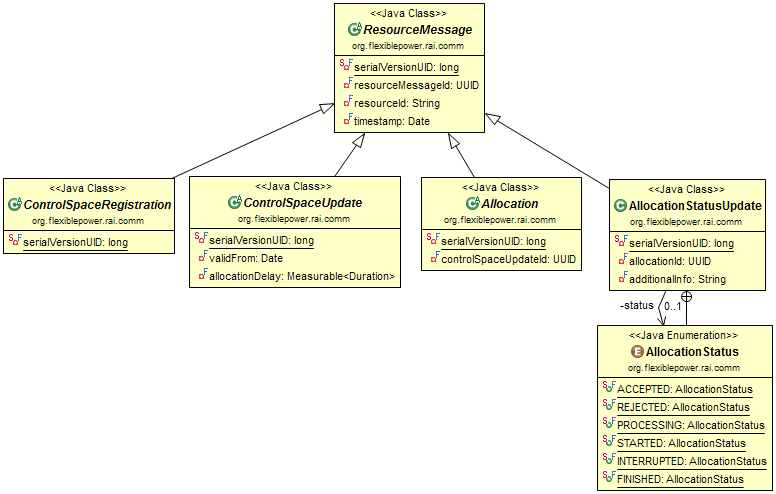
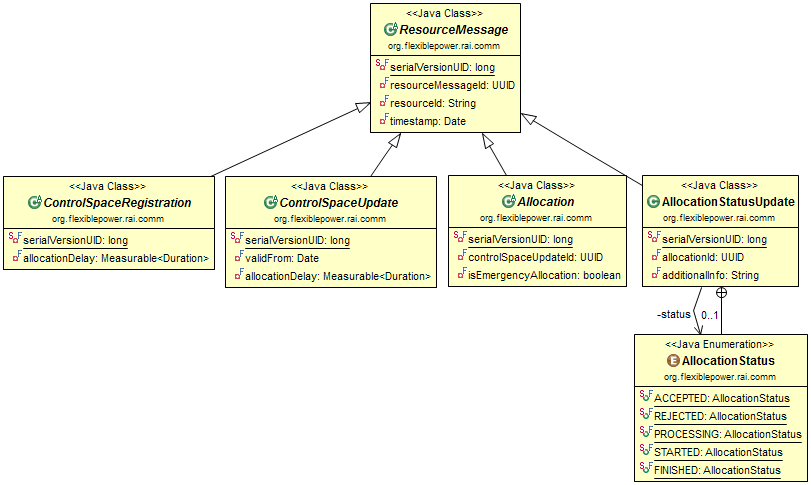
updated uml figures and removed AllocationStatusUpdate -> interrupted

Changed region(s): [[0.0, 0.0, 1.0, 1.0], [0.6804, 0.2784, 0.7113, 0.3093]]

diff --git a/flexiblepower.api/src/org/flexiblepower/rai/comm/AllocationStatusUpdate.java b/flexiblepower.api/src/org/flexiblepower/rai/comm/AllocationStatusUpdate.java
@@ -8,7 +8,7 @@ public final class AllocationStatusUpdate extends ResourceMessage {
     private static final long serialVersionUID = 9119759551623204007L;
 
     public enum AllocationStatus {
-        ACCEPTED, REJECTED, PROCESSING, STARTED, INTERRUPTED, FINISHED
+        ACCEPTED, REJECTED, PROCESSING, STARTED, FINISHED
     };
 
     private final UUID allocationId;
